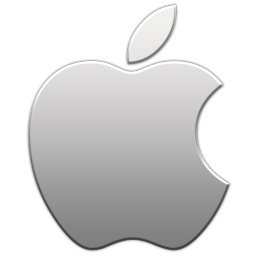
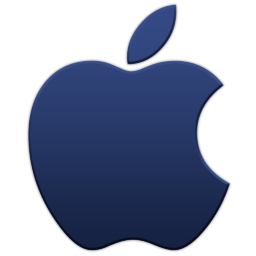
Building views

diff --git a/app/assets/stylesheets/sites.css.scss b/app/assets/stylesheets/sites.css.scss
@@ -2,7 +2,8 @@
 // They will automatically be included in application.css.
 // You can use Sass (SCSS) here: http://sass-lang.com/
 $main_blue: #3399CC;
-$light_blue: #64BBE6;
+//$light_blue: #64BBE6;
+$light_blue: #A6D3FD;
 $lightest_blue: #87C7E6;
 $dark_blue: #437D99;
 $darkest_blue: #115F85;
@@ -30,7 +31,7 @@ $darkest_gold: #A67D12;
 		position: absolute;
 		font-size: 12px;
 		font-style: normal;
-		color: #3399CC;
+		color: $light_blue;
 		top: 2px;
 		right: 140px;
 		
@@ -46,7 +47,7 @@ $darkest_gold: #A67D12;
 	.toggle_button {
 		position: absolute;
 		font-size: 11px;
-		color: #3399CC;
+		color: $light_blue;
 		padding: 3px;
 		border-left: 1px solid $light_blue;
 		border-top: 2px solid $light_blue;
@@ -64,7 +65,7 @@ $darkest_gold: #A67D12;
 	.refresh_button {
 		position: absolute;
 		font-size: 11px;
-		color: #3399CC;
+		color: $light_blue;
 		padding: 3px;
 		border-left: 1px solid $light_blue;
 		border-top: 2px solid $light_blue;
@@ -82,7 +83,7 @@ $darkest_gold: #A67D12;
 	.hide_button {
 		position: absolute;
 		font-size: 11px;
-		color: #3399CC;
+		color: $light_blue;
 		padding: 3px;
 		border-left: 1px solid $light_blue;
 		border-top: 2px solid $light_blue;
@@ -104,6 +105,7 @@ $darkest_gold: #A67D12;
 		display: block;
 		border: 2px solid $light_blue;
 		margin-bottom: 20px;
+		font-size: 0px;
 		
 		.type_header {
 			width: 100%;
@@ -112,49 +114,50 @@ $darkest_gold: #A67D12;
 			padding: 3px 0px;
 			text-align: center;
 		}
-		.type_pane {
-			width: 100%;
-			display: block;
-			font-size: 0px;
-			.device_column {
-				width: 191px;
-				display: inline-block;
-				vertical-align: top;
-				.device {
-					line-height: 24px;
-					font-size: 14px;
-					cursor: pointer;
-					text-align: center;
-					margin: 2px;
-				}
-				.available {
-					background-color: #5BBD5C;
-					color: #303D30;
-					text-shadow: 0px 0px 8px #1E3D1E;
-				}
-				.unavailable {
-					background-color: #DBC067;
-					color: #5B5746;
-					text-shadow: 0px 0px 8px #5B502B;
-				}
-				.offline {
-					background-color: #D66781;
-					color: #562A34;
-					text-shadow: 0px 0px 8px #893448;
-				}
+		.device_column {
+			width: 230px;
+			display: inline-block;
+			vertical-align: top;
+			.device {
+				line-height: 24px;
+				font-size: 14px;
+				cursor: pointer;
+				text-align: center;
+				margin: 2px;
+				white-space: nowrap;
+				overflow: hidden;
+			}
+			.available {
+				background-color: #5BBD5C;
+				color: #303D30;
+				text-shadow: 0px 0px 8px #1E3D1E;
+			}
+			.unavailable {
+				background-color: #DBC067;
+				color: #5B5746;
+				text-shadow: 0px 0px 8px #5B502B;
+			}
+			.offline {
+				background-color: #D66781;
+				color: #562A34;
+				text-shadow: 0px 0px 8px #893448;
 			}
 		}
 	}
 	
 	.light {
 		margin-left: 5px;
-		margin-right: 10px;
+		margin-right: 5px;
 		height: 16px;
 		vertical-align: -2px;
 	}
-	.light-right {
+	.type-icon {
 		margin-right: 5px;
-		margin-left: 10px;
+		height: 16px;
+		vertical-align: -2px;
+	}
+	.type-icon-right {
+		margin-left: 5px;
 		height: 16px;
 		vertical-align: -2px;
 	}

diff --git a/app/assets/stylesheets/layout.css.scss b/app/assets/stylesheets/layout.css.scss
@@ -19,7 +19,7 @@ $darkest_gold: #A67D12;
 }
 
 body {
-	background: image_url("bg_nav.jpg") repeat-y fixed left top $page_bg2;
+	background: image_url("bg_nav.jpg") repeat-y fixed left top #1D2D44;
   	color: $lightest_gold;
 	font-family: "Lucida Sans Unicode","Lucida Grande","Trebuchet MS",Arial,Helvetica,sans-serif;
 	font-size: 11px;
@@ -81,7 +81,7 @@ body {
 			}
 		}
 		li.parent, li.active, li#current {
-			background: image_url("arrow_menu_big.jpg") no-repeat scroll right top transparent;
+			background: image_url("arrow_menu_big.png") no-repeat scroll right top transparent;
 			border: medium none;
 			color: #FFFFFF !important;
 			margin-bottom: -1px;
@@ -137,7 +137,7 @@ body {
 			clear: both;
 			
 			.parent.active, #current.active {
-				background: image_url("arrow_menu_small.jpg") no-repeat scroll right top transparent;
+				background: image_url("arrow_menu_small.png") no-repeat scroll right top transparent;
 				border: medium none;
 				color: #FFFFFF !important;
 				margin-bottom: -1px;
@@ -171,14 +171,17 @@ body {
 }
 
 #content {
-	margin-left: 320px;
-	margin-right: 60px;
+	background: image_url("bg.jpg") repeat-x scroll center top;
+	min-height: 800px;
+	margin-left: 235px;
+	padding-left: 85px;
+	padding-right: 60px;
 	overflow: hidden;
 	padding-top: 50px;
 }
 
 #page_title {
-	border-left: 1px solid $main_blue;
+	border-left: 1px solid #A6D3FD;
 	color: $main_gold;
 	font-size: 20px;
 	letter-spacing: 0.3px;
@@ -188,7 +191,7 @@ body {
 	font-variant: small-caps;
 }
 a {
-	color: $main_blue;
+	color: #A6D3FD;
 	text-decoration: none;
 }
 a:hover {
@@ -201,7 +204,7 @@ ul {
 
 th {
 	border-bottom: 1px dotted $main_blue;
-	color: $main_blue;
+	color: #A6D3FD;
 	font-size: 14px;
 	font-variant: small-caps;
 	text-align: center;
@@ -209,7 +212,7 @@ th {
 
 input[type="text"], input[type="password"] {
 	background-color: transparent;
-	border: 1px solid $main_blue;
+	border: 1px solid #A6D3FD;
 	color: #FFFFFF;
 	padding: 3px;
 }
@@ -267,7 +270,7 @@ tbody tr {
 	right: 0px;
 	
 	.flash {
-		margin: 20px;
+		margin: 40px 20px 20px;
 		padding: 10px;
 		min-width: 200px;
 		max-width: 500px;

diff --git a/app/decorators/site_decorator.rb b/app/decorators/site_decorator.rb
@@ -9,32 +9,33 @@ class SiteDecorator < ApplicationDecorator
     end
     "data-macs=""#{formatted_counts[:mac]}"" data-pcs=""#{formatted_counts[:pc]}"" data-thinclients=""#{formatted_counts[:tc]}"""
   end
-  # Accessing Helpers
-  #   You can access any helper via a proxy
-  #
-  #   Normal Usage: helpers.number_to_currency(2)
-  #   Abbreviated : h.number_to_currency(2)
-  #
-  #   Or, optionally enable "lazy helpers" by including this module:
-  #     include Draper::LazyHelpers
-  #   Then use the helpers with no proxy:
-  #     number_to_currency(2)
-
-  # Defining an Interface
-  #   Control access to the wrapped subject's methods using one of the following:
-  #
-  #   To allow only the listed methods (whitelist):
-  #     allows :method1, :method2
-  #
-  #   To allow everything except the listed methods (blacklist):
-  #     denies :method1, :method2
-
-  # Presentation Methods
-  #   Define your own instance methods, even overriding accessors
-  #   generated by ActiveRecord:
-  #
-  #   def created_at
-  #     h.content_tag :span, time.strftime("%a %m/%d/%y"),
-  #                   :class => 'timestamp'
-  #   end
+  
+  def client_pane
+    devices = Array.new
+    ClientDecorator.decorate(model.clients.enabled.order(:name)).each do |client| 
+      devices << client.client_cell
+    end
+    columnize(devices)
+  end
+  
+  private
+  
+  def columnize(devices, column_count = 5)
+    columns = Array.new
+    if devices.length < column_count
+      devices.each do |device|
+        column = h.content_tag :div, device.html_safe, :class => "device_column"
+        columns << column
+      end
+    else
+      min, rem = devices.length.divmod(column_count)
+      column_count.times do |i|
+        slice_size = i < rem ? min + 1 : min
+        slice = devices.slice!(0, slice_size)
+        column = h.content_tag :div, slice.join('').html_safe, :class => "device_column"
+        columns << column
+      end
+    end
+    columns.join('').html_safe
+  end
 end

diff --git a/app/decorators/client_decorator.rb b/app/decorators/client_decorator.rb
@@ -1,0 +1,41 @@
+class ClientDecorator < ApplicationDecorator
+  decorates :client
+
+  def client_cell
+    status = model.current_status
+    type = model.client_type == "mac" ? "mac" : "windows"
+    light = light(status)
+    left_type_icon = h.image_tag "#{type}.png", :title => type.capitalize, :height => "16", :class => "type-icon"
+    right_type_icon = h.image_tag "#{type}.png", :title => type.capitalize, :height => "16", :class => "type-icon-right"
+    name = h.content_tag :span, model.name
+    h.content_tag :div, light + left_type_icon + name + right_type_icon + light, :class => "device #{status}"
+  end
+  # Accessing Helpers
+  #   You can access any helper via a proxy
+  #
+  #   Normal Usage: helpers.number_to_currency(2)
+  #   Abbreviated : h.number_to_currency(2)
+  #
+  #   Or, optionally enable "lazy helpers" by including this module:
+  #     include Draper::LazyHelpers
+  #   Then use the helpers with no proxy:
+  #     number_to_currency(2)
+
+  # Defining an Interface
+  #   Control access to the wrapped subject's methods using one of the following:
+  #
+  #   To allow only the listed methods (whitelist):
+  #     allows :method1, :method2
+  #
+  #   To allow everything except the listed methods (blacklist):
+  #     denies :method1, :method2
+
+  # Presentation Methods
+  #   Define your own instance methods, even overriding accessors
+  #   generated by ActiveRecord:
+  #
+  #   def created_at
+  #     h.content_tag :span, time.strftime("%a %m/%d/%y"),
+  #                   :class => 'timestamp'
+  #   end
+end

diff --git a/app/decorators/application_decorator.rb b/app/decorators/application_decorator.rb
@@ -1,4 +1,16 @@
 class ApplicationDecorator < Draper::Base
+  def light(status)
+    color = "green"
+    case status
+    when "available"
+      color = "green"
+    when "unavailable"
+      color = "yellow"
+    when "offline"
+      color = "red"
+    end
+    h.image_tag "#{color}.png", :class => "light"
+  end
   # Lazy Helpers
   #   PRO: Call Rails helpers without the h. proxy
   #        ex: number_to_currency(model.price)

diff --git a/app/controllers/sites_controller.rb b/app/controllers/sites_controller.rb
@@ -4,6 +4,7 @@ class SitesController < ApplicationController
 
   def show
     @department = Department.find(params[:department_id])
+    @site = SiteDecorator.find(params[:id])
   end
 
 end

diff --git a/spec/decorators/client_decorator_spec.rb b/spec/decorators/client_decorator_spec.rb
@@ -1,0 +1,5 @@
+require 'spec_helper'
+
+describe ClientDecorator do
+  before { ApplicationController.new.set_current_view_context }
+end
